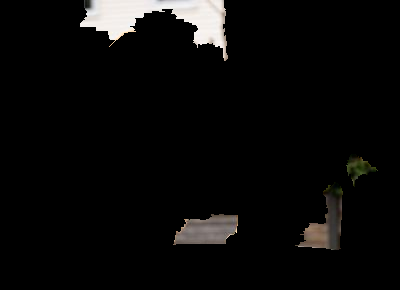
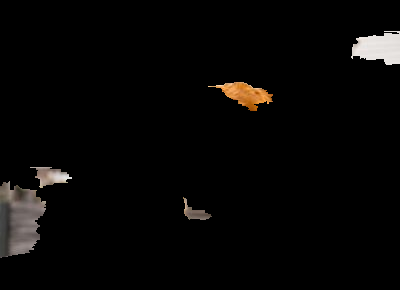
refactor lime code

diff --git a/lime.py b/lime.py
@@ -1,9 +1,5 @@
 import numpy as np
 
-from numpy.random import binomial, seed
-from numpy.typing import NDArray
-
-from skimage.io import imread, imsave
 from skimage.segmentation import quickshift
 
 import torch
@@ -12,106 +8,163 @@ from torch import Tensor
 from torch.nn import Module
 
 from torchvision.models import vgg16, VGG16_Weights
+from torchvision.transforms import ToTensor, ToPILImage
 
 from sklearn.linear_model import LinearRegression
-from sklearn.metrics import pairwise_distances
 
 from PIL import Image
 
-from tqdm import tqdm
-
 import argparse
-
-from utils import *
 
 DEVICE = "cuda" if torch.cuda.is_available() else "cpu"
 
-def gen_image_superpixels(image: NDArray, kernel_size: int, max_dist: int, ratio: float) -> NDArray:
-    return quickshift(image, kernel_size=kernel_size, max_dist=max_dist, ratio=ratio)
-
-def get_superpixels_num(superpixels: NDArray) -> int:
-    return len(set(superpixels.flatten().tolist()))
-
-def gen_superpixels_sample(num_samples: int, num_superpixels: int, probability:float, random_seed: int = None) -> NDArray:
-    if random_seed is not None:
-        seed(random_seed)
-    return binomial(1, probability, (num_samples, num_superpixels))
-
-def gen_masked_image(image: NDArray, superpixels_sample: NDArray, image_superpixels: NDArray):
-    sample_indexes = np.where(superpixels_sample == 1)
-    mask = np.isin(image_superpixels, sample_indexes)
-    return image * mask[..., None]  # clever way to multiply (W, H, C) * (W, H)  :D
-
-@torch.no_grad()
-def gen_model_preds(model: Module, image: NDArray, superpixels_sample: NDArray, image_superpixels: NDArray) -> Tensor:
-    masked_image = gen_masked_image(image, superpixels_sample, image_superpixels)
-    tensor_image = numpy_to_torch(masked_image, device=DEVICE)
-    return model(tensor_image)
-
-def find_class_to_explain(model: Module, image: NDArray, image_superpixels: NDArray) -> Tensor:
-    superpixels_num = get_superpixels_num(image_superpixels)
-    pred = gen_model_preds(model, image, np.ones((superpixels_num, )), image_superpixels)
-    return argmax(pred)
-
-def get_sample_distances(superpixels_sample: NDArray) -> NDArray:
-    complete_sample = np.ones_like(superpixels_sample)[0]
-    complete_sample = np.expand_dims(complete_sample, axis=0)
-    return np.squeeze(pairwise_distances(superpixels_sample, complete_sample, metric='cosine'))
-
-def get_sample_weights(image_superpixels: NDArray, kernel_width: float=0.25) -> NDArray:
-    sample_distances = get_sample_distances(image_superpixels)
-    return np.sqrt(np.exp(- sample_distances**2 / kernel_width**2))
-
-def train_linear_model(
-    image: NDArray,
-    model: Module,
-    image_superpixels: NDArray,
-    seed: int,
-    sampling_prob: float,
-    sampling_num: int,
-    distance_kernel: float
+class Quickshifter:
+    def __init__(
+        self,
+        kernel,
+        max_dist,
+        ratio
     ):
-    superpixels_num = get_superpixels_num(image_superpixels)
-    class_to_explain = find_class_to_explain(model, image, image_superpixels)
+        self.kernel = kernel
+        self.max_dist = max_dist
+        self.ratio = ratio
 
-    superpixels_sample = gen_superpixels_sample(sampling_num, superpixels_num, sampling_prob, random_seed=seed)
-
-    outs = []
-    for sample in tqdm(superpixels_sample):
-        pred = gen_model_preds(model, image, sample, image_superpixels)
-        outs.append(pred[0][class_to_explain].detach().cpu())
-
-    linear_model = LinearRegression()
-    linear_model.fit(X=superpixels_sample, y=outs, sample_weight=get_sample_weights(superpixels_sample, distance_kernel))
+        self.superpixels = None
+        self.num_superpixels = None
     
-    return linear_model.coef_
+    def compute(self, image: Tensor):
+        if self.superpixels is not None:
+            return
+        
+        image = image.permute(1, 2, 0).numpy()
+        self.superpixels = torch.tensor(
+            quickshift(
+                image, 
+                kernel_size=self.kernel, 
+                max_dist=self.max_dist, 
+                ratio=self.ratio
+            )
+        )
+        self.num_superpixels = len(set(self.superpixels.flatten().tolist()))
 
-def lime(
-    path: str,
-    seed: int,
-    sampling_prob: float,
-    sampling_num: int,
-    quickshift_kernel: int,
-    quickshift_max_dist: int,
-    quickshift_ratio: float,
-    distance_kernel: float,
-    num_selected_coefs: int
-    ) -> NDArray:
+class SuperpixelSampler:
+    def __init__(
+        self,
+        quickshifter: Quickshifter,
+        probability: float,
+        num_samples: int,
+        seed: int
+    ):
+        self.quickshifter = quickshifter
+        self.probability = probability
+        self.num_samples = num_samples
+        self.seed = seed
 
-    image = imread(path)
-    image_superpixels = gen_image_superpixels(image, quickshift_kernel, quickshift_max_dist, quickshift_ratio)
+        self.sample = None
+        self.image_sample = None
+
+    def compute(self, image: Tensor):
+        if self.sample is not None:
+            return
+        
+        self.quickshifter.compute(image)
+
+        torch.manual_seed(self.seed)
+        probability_tensor = torch.full((self.num_samples, self.quickshifter.num_superpixels), self.probability)
+        self.sample = torch.bernoulli(probability_tensor).to(dtype=torch.int)
+        self.image_sample = self._image_batch_from_sample(image)
+    
+    def _image_batch_from_sample(self, image):
+        batch_size = self.sample.size(0)
+        
+        masks = []
+        for i in range(batch_size):
+            sample_indexes = torch.nonzero(self.sample[i] == 1, as_tuple=True)
+            mask = torch.isin(self.quickshifter.superpixels, torch.cat(sample_indexes))
+            masks.append(mask)
+        
+        masks = torch.stack(masks)  # Stack masks to match batch dimension
+
+        return image.unsqueeze(0) * masks.unsqueeze(1).expand(-1, 3, -1, -1)
+
+    def image_from_superpixels(self, image, superpixels_indices):
+        superpixels = self.quickshifter.superpixels
+
+        masked_superpixels = torch.isin(superpixels, torch.tensor(superpixels_indices)).float()
+        return image * masked_superpixels
+
+class SampleWeightsCalculator:
+    def __init__(self, kernel):
+        self.kernel = kernel
+        self.cosine_similarity = torch.nn.CosineSimilarity(dim=1)
+
+    def compute(self, superpixels):
+        distances = self.cosine_similarity(torch.ones_like(superpixels).float(), superpixels)
+        return torch.sqrt(torch.exp(- distances**2 / self.kernel**2))
+
+class Lime:
+    def __init__(
+        self,
+        superpixel_sampler: SuperpixelSampler,
+        model: Module,
+        sample_weights_calculator: SampleWeightsCalculator,
+    ):
+        self.model = model
+        self.model.eval()
+        self.superpixel_sampler = superpixel_sampler
+        self.sample_weights_calculator = sample_weights_calculator
+        self.linear_model = LinearRegression()
+    
+    @torch.no_grad()
+    def _find_explained_class(self, image: Tensor):
+        return argmax(self.model(image))
+
+    @torch.no_grad()
+    def _compute_explained_class(self, image: Tensor):
+        self.model.eval()
+
+        return torch.argmax(self.model(image.unsqueeze(0).to(DEVICE))[0]).item()
+
+    @torch.no_grad()
+    def _compute_model_preds(self, batch_image: Tensor, explained_class: int):
+        assert len(batch_image.size()) == 4
+        self.model.eval()
+        
+        return self.model(batch_image.to(DEVICE))[:, explained_class]
+
+    def train(self, image):
+        self.superpixel_sampler.compute(image)
+        explained_class = self._compute_explained_class(image)
+        preds = self._compute_model_preds(self.superpixel_sampler.image_sample, explained_class)
+        sample_weights = self.sample_weights_calculator.compute(self.superpixel_sampler.sample)
+        
+        self.linear_model.fit(
+            X=self.superpixel_sampler.sample.cpu(), 
+            y=preds.cpu(), 
+            sample_weight=sample_weights
+        )
+
+        return self.linear_model.coef_
+
+
+def main(args):
+    image = Image.open(args.path)
+    image = ToTensor()(image)
+
+    quickshifter = Quickshifter(args.quickshift_kernel, args.quickshift_max_dist, args.quickshift_ratio)
     model = vgg16(weights=VGG16_Weights.DEFAULT).to(DEVICE)
-    
-    coefs = train_linear_model(image, model, image_superpixels, seed, sampling_prob, sampling_num, distance_kernel)
-    
-    top_features = np.argsort(coefs)[-num_selected_coefs:]
 
-    mask = np.zeros(get_superpixels_num(image_superpixels))
-    mask[top_features] = 1
+    superpixel_sampler = SuperpixelSampler(quickshifter, args.sampling_prob, args.sampling_num, args.seed)
+    sample_weights_calculator = SampleWeightsCalculator(args.distance_kernel)
+    lime = Lime(superpixel_sampler, model, sample_weights_calculator)
 
-    return gen_masked_image(image, mask, image_superpixels)
+    coefs = lime.train(image)
+    top_features = np.argsort(coefs)[-args.num_selected_coefs:]
 
-def main():
+    ToPILImage()(superpixel_sampler.image_from_superpixels(image, top_features)).show()
+
+
+if __name__ == "__main__":
     parser = argparse.ArgumentParser(description="DeepDream in PyTorch using VGG16")
 
     parser.add_argument("path", type=str, help="Path to image")
@@ -128,26 +181,7 @@ def main():
     
     parser.add_argument("--num-selected-coefs", type=int, default=5, help="Number of linear model coeficients used in LIME image")
 
-    parser.add_argument("--save-image", action='store_true', help="Save image")
+    parser.add_argument("--save-image", type=str, help="Saved image path")
     
     args = parser.parse_args()
-
-    lime_image = lime(
-        args.path, 
-        args.seed, 
-        args.sampling_prob, 
-        args.sampling_num,
-        args.quickshift_kernel,
-        args.quickshift_max_dist,
-        args.quickshift_ratio,
-        args.distance_kernel,
-        args.num_selected_coefs
-    )
-
-    Image.fromarray(lime_image).show()
-
-    if args.save_image:
-        imsave("lime.png", lime_image)
-
-if __name__ == "__main__":
-    main()
+    main(args)
